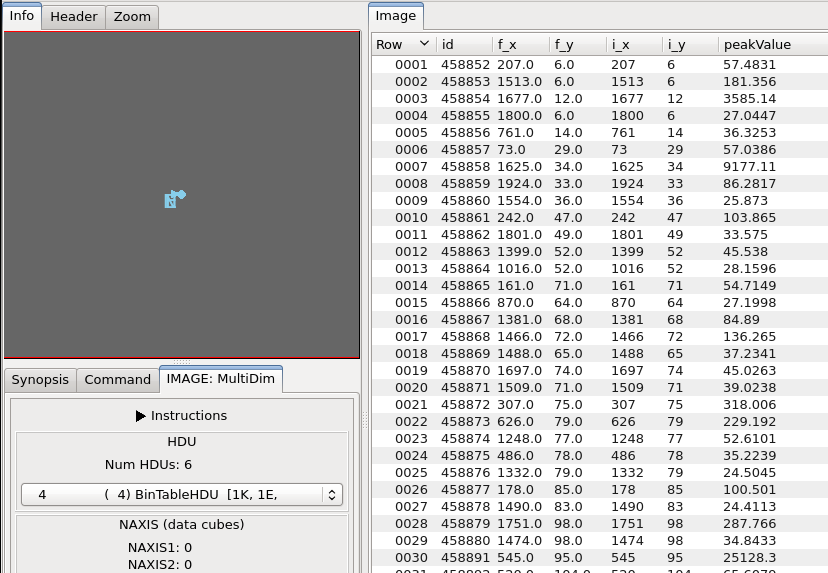
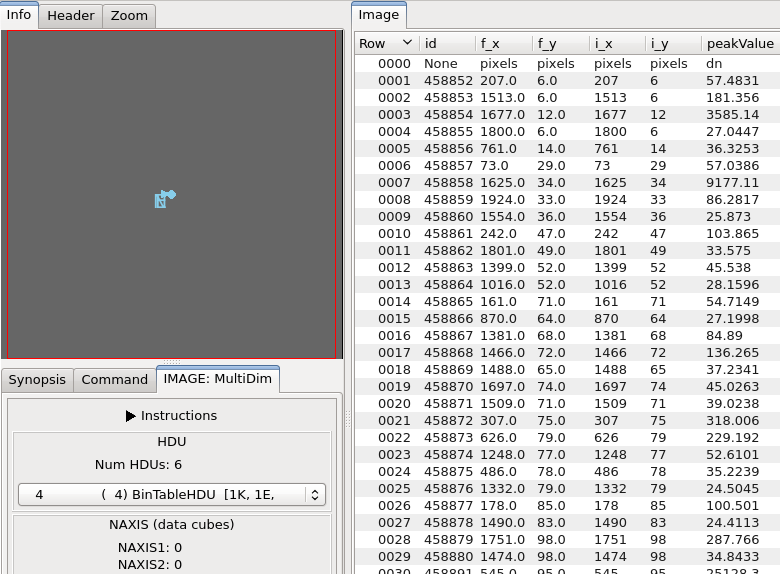
Updated table viewer screenshot to include units sub-header. Added text to clarify sub-header display.

Changed region(s): [[0.0, 0.0, 1.0, 1.0], [0.1846, 0.3264, 0.2154, 0.356]]

diff --git a/doc/manual/plugins_local/multidim.rst b/doc/manual/plugins_local/multidim.rst
@@ -24,6 +24,8 @@ button or create a movie using the **Save Movie** button by entering the
 installed.
 
 For a FITS table, its data are read in using
-:ref:`astropy.table <astropy:astropy-table>`.
+:ref:`astropy.table <astropy:astropy-table>`. Column units, if present, are
+displayed right under the main header as "Row 0000". Table data start from
+"Row 0001".
 
 .. automodule:: ginga.misc.plugins.MultiDim
